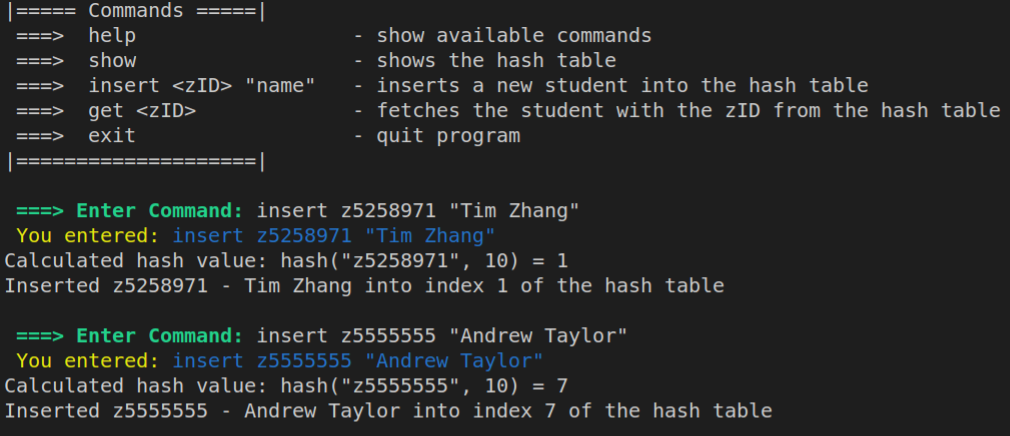
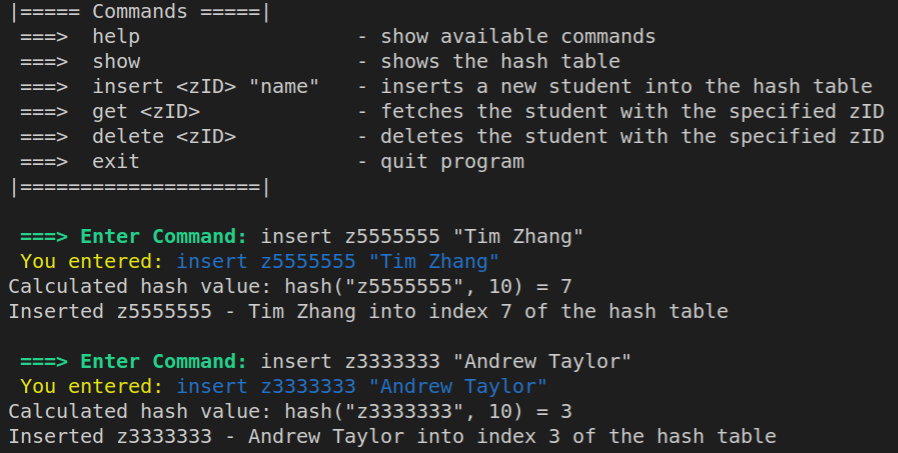
Corrected hash images and added hash-table images

Changed region(s): [[0.0, 0.0, 0.9978, 0.4472], [0.0, 0.4472, 0.8107, 0.7156], [0.0, 0.7454, 0.8731, 0.9839]]

diff --git a/hash-table/main.c b/hash-table/main.c
@@ -24,7 +24,8 @@ void printCommands() {
                     " ===>  help                  - show available commands\n"
                     " ===>  show                  - shows the hash table\n"
                     " ===>  insert <zID> \"name\"   - inserts a new student into the hash table\n"
-                    " ===>  get <zID>             - fetches the student with the zID from the hash table\n"
+                    " ===>  get <zID>             - fetches the student with the specified zID\n"
+                    " ===>  delete <zID>          - deletes the student with the specified zID\n"
                     " ===>  exit                  - quit program\n"
                     "|====================|\n";
     printf("%s", helpLog);

diff --git a/README.md b/README.md
@@ -110,13 +110,10 @@ Interactive weighted directed/undirected graph builder written in C. Implements 
 
 Eg. `./testGraph tests/1.in`
 
-
-
-
 <a name="interactive-hash"/>
 
-## Interactive Hash Table
-Interactive hash table written in C.
+## Interactive Hash Table (Lookup Table)
+Interactive hash table for storing UNSW students, written in C.
 
 ### Setup Instructions:
 1. `git clone https://github.com/Tymotex/DataStructures.git` 
@@ -141,7 +138,11 @@ Interactive max heap table written in C.
 3. `make` - creates the executable file `testHeap`
 4. `./testHeap <size>` - creates an empty hash table with the specified size (otherwise defaults to 10 slots) 
 
-
+### Example Usage:
+<p float="left">
+  <img src="https://raw.githubusercontent.com/Tymotex/DataStructures/master/Images/interactive-heap/InteractiveHeap1.png" max-width="35%" max-height="500px" />
+  <img src="https://raw.githubusercontent.com/Tymotex/DataStructures/master/Images/interactive-heap/InteractiveHeap2.png" max-width="35%" max-height="500px" />
+</p>
 
 <a name="interactive-sort"/>
 
